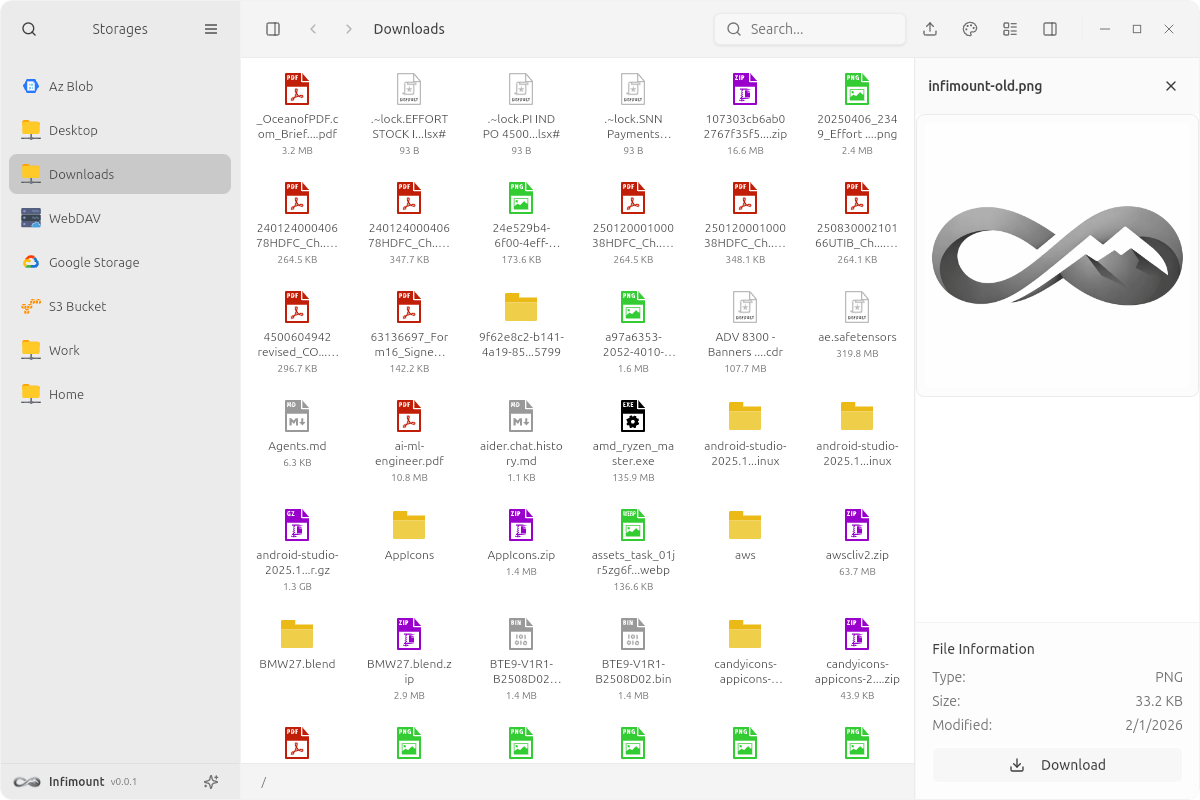
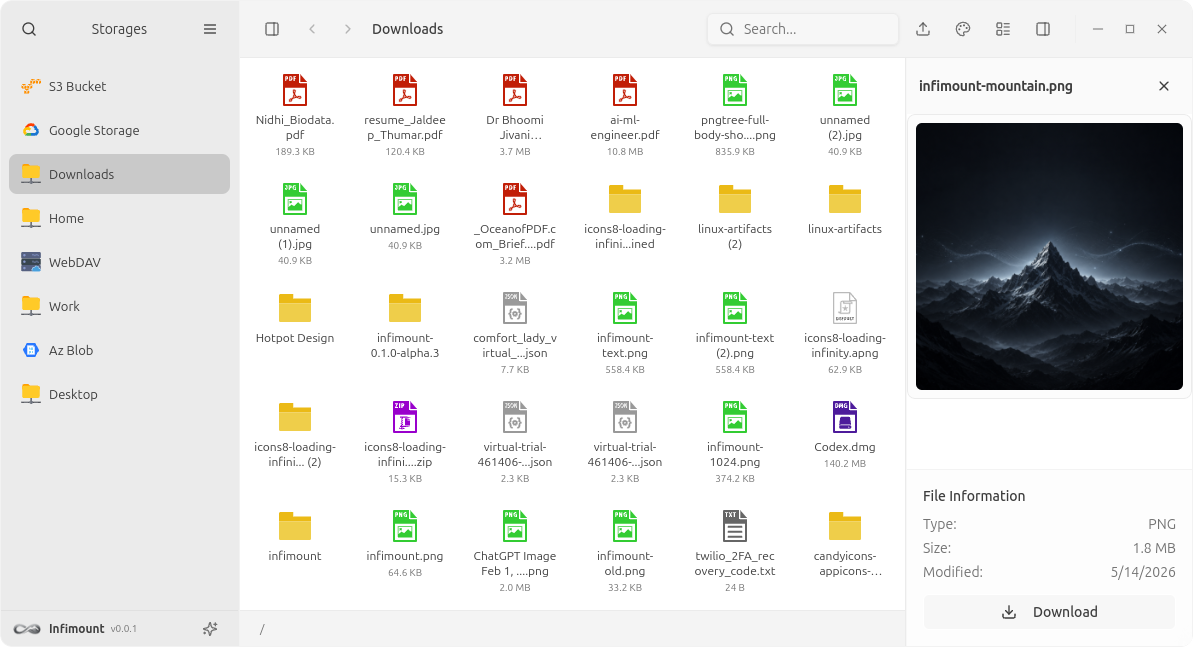
docs: update app screenshot

diff --git a/README.md b/README.md
@@ -11,6 +11,10 @@
   <img src="docs/assets/infimount-banner.png" alt="Infimount - one surface for every storage" width="900" />
 </p>
 
+<p align="center">
+  <img src="docs/assets/screenshot-infimount.png" alt="Infimount desktop app screenshot" width="900" />
+</p>
+
 > 🔐 **LOCAL-FIRST BY DEFAULT**
 >
 > Infimount stores your storage sources, app config, and credentials on your own machine.
